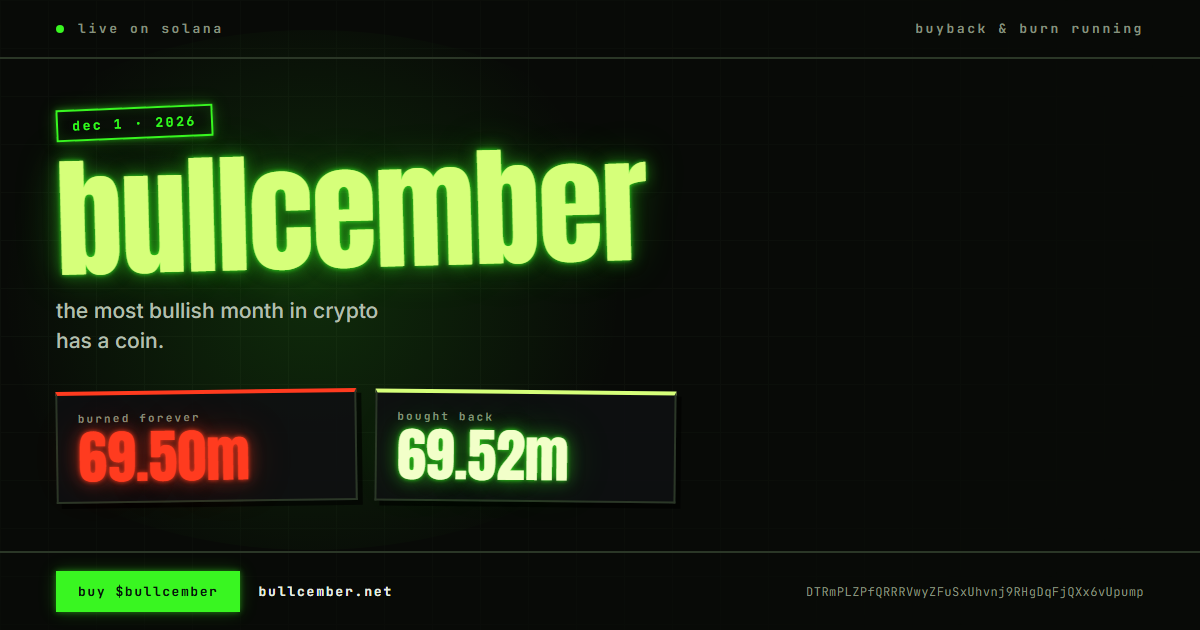
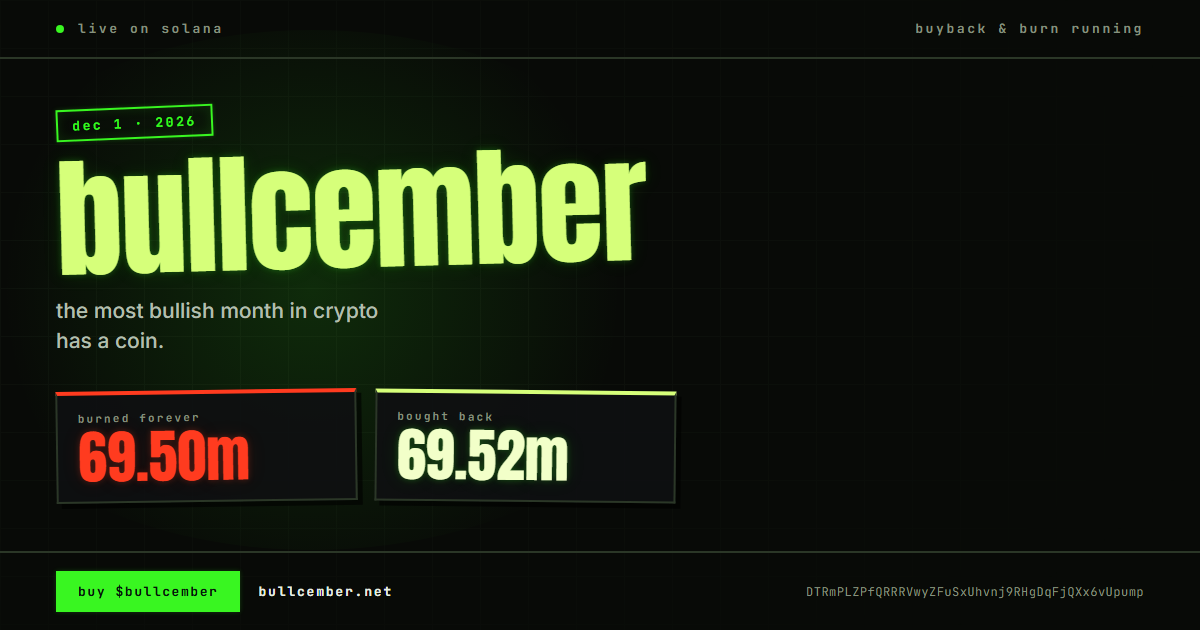
Dial the glow back -- it was glare, not atmosphere
Reported as painful to look at, and it was. --glow-lg stacked four layers
reaching 90px at 0.9 alpha under 152px display type on a near-black page: a
large, bright, soft-edged light source with nothing around it to adapt to.
Now two layers, 20px reach, 0.26 peak alpha.

The tell that the original numbers were wrong is that a real tube's halo falls
off fast and is dim a few centimetres out. A 90px bloom was never observed
behaviour, it was just more effect.

Removing the accumulation mattered as much as shrinking the token. Eleven
elements were each emitting light and the page had no dark to rest in, so glow
is now gone entirely from the section titles, the primary and secondary CTAs,
the marquee band and its type, the stats bar surround, nav hover, the solana
badge, the social CTA, the scrawl, and the stamps' inner spill and text. What
stays lit is only what is genuinely display type: the wordmark, the countdown,
the herd counter and the two engine figures.

Two supporting changes:

- The hero wash drops from 0.13 to 0.07. It sits behind the headline, so it was
  adding to exactly the spot that was worst.
- Small type is flat everywhere now. A halo on 11-13px text never reads as
  light, it just blurs the glyph edges, so it was paying a legibility cost for
  nothing.

brand-tokens.css and og-template.html carry their OWN copies of these tokens
rather than referencing style.css, so the first pass at this reduction missed
[…]

diff --git a/style.css b/style.css
@@ -1921,19 +1921,26 @@ section { padding: var(--section-y) 0; }
   --down:          #FF4D4D;
 
   /* ---- glow ------------------------------------------------------------
-     The halo layer, as reusable recipes rather than hand-rolled shadows. Two
-     strengths: --glow-sm for interface furniture (borders, chips, small type)
-     and --glow-lg for display type that is meant to look like it is actually
-     lit. Both are pure colour with no offset — a tube glows evenly in all
-     directions, and any offset immediately reads as a drop shadow instead. */
-  --glow-sm:  0 0 6px rgba(var(--signal-rgb), 0.45),
-              0 0 18px rgba(var(--signal-rgb), 0.22);
-  --glow-lg:  0 0 4px rgba(var(--signal-rgb), 0.9),
-              0 0 14px rgba(var(--signal-rgb), 0.55),
-              0 0 42px rgba(var(--signal-rgb), 0.3),
-              0 0 90px rgba(var(--signal-rgb), 0.16);
-  --glow-accent: 0 0 6px rgba(214, 255, 122, 0.4),
-                 0 0 20px rgba(214, 255, 122, 0.2);
+     The halo layer, as reusable recipes rather than hand-rolled shadows. Pure
+     colour with no offset — a tube glows evenly in all directions, and any
+     offset immediately reads as a drop shadow instead.
+
+     DIALLED BACK 2026-09-24 on the direct report that it hurt to look at, and
+     it did: --glow-lg was four stacked layers reaching 90px at 0.9 alpha, sat
+     under 152px display type on a near-black page. That is a large, bright,
+     soft-edged light source with nothing around it to adapt to, which is the
+     recipe for glare rather than for atmosphere. It is two layers now, half
+     the reach and roughly a quarter of the intensity.
+
+     The tell that the old numbers were wrong: a real tube's halo falls off
+     fast and is dim a few centimetres out. A 90px bloom was never observed
+     behaviour, it was just more effect. If this ever needs to read harder,
+     raise the INNER layer's alpha, never add reach — the wide soft layers are
+     what causes the strain, and they are the ones that read as haze anyway. */
+  --glow-sm:  0 0 5px rgba(var(--signal-rgb), 0.20);
+  --glow-lg:  0 0 6px rgba(var(--signal-rgb), 0.26),
+              0 0 20px rgba(var(--signal-rgb), 0.10);
+  --glow-accent: 0 0 6px rgba(214, 255, 122, 0.14);
 
   --f-slab:   'Anton', 'Space Grotesk', Impact, sans-serif;
   --f-scrawl: 'Permanent Marker', 'Comic Sans MS', cursive;
@@ -2703,7 +2710,8 @@ html { overflow-x: clip; }
 }
 
 /* ---- section titles and the inline highlight ---------------------------- */
-.section-title { text-shadow: 0 0 22px rgba(var(--signal-rgb), 0.18); }
+/* the section title is --bone, not a lit colour, so it never needed a halo */
+.section-title { text-shadow: none; }
 .highlight {
   color: var(--signal-core);
   text-shadow: var(--glow-lg);
@@ -2728,9 +2736,8 @@ html { overflow-x: clip; }
 }
 .elive.burn .elive-v {
   color: var(--burn);
-  text-shadow: 0 0 4px rgba(255, 59, 31, 0.9),
-               0 0 14px rgba(255, 59, 31, 0.5),
-               0 0 42px rgba(255, 59, 31, 0.26);
+  text-shadow: 0 0 6px rgba(255, 59, 31, 0.26),
+               0 0 20px rgba(255, 59, 31, 0.10);
 }
 .elive.rw .elive-v {
   color: var(--accent);
@@ -2750,44 +2757,48 @@ html { overflow-x: clip; }
    The trench stamp carried a hard 3px offset in signal at 22% alpha. A bloom
    on both sides of the border (outer halo + inner spill) is what a bent tube
    actually does to the surface it is mounted on. */
+/* The border is the lit part. The inset spill and the text halo were two more
+   light sources on an element the size of a postage stamp, and at 11px the
+   halo only blurred the letterforms. */
 .hero-tag, .section-tag, .final-cta-tag {
   color: var(--signal-ink);
   border-color: var(--signal);
-  box-shadow: var(--glow-sm), inset 0 0 12px rgba(var(--signal-rgb), 0.12);
-  text-shadow: 0 0 10px rgba(var(--signal-rgb), 0.5);
+  box-shadow: var(--glow-sm);
+  text-shadow: none;
 }
 
 /* ---- filled CTA ---------------------------------------------------------
    Dark ink on the fill, never white: #FFF on this green is 1.46:1. The fill is
    already the brightest thing on the page, so the halo stays restrained. */
+/* No halo on the fill. A solid 13.6:1 block is already the brightest object on
+   the page; a glow around it only smears its edge. The hover brightens the
+   fill instead, which is the cheaper signal and does not add a light source. */
 .btn-primary {
   background: var(--signal);
   color: var(--on-signal);
   border-color: var(--signal);
-  box-shadow: var(--glow-sm);
+  box-shadow: none;
 }
 .btn-primary:hover {
   background: var(--signal-core);
   border-color: var(--signal-core);
-  box-shadow: 0 0 10px rgba(var(--signal-rgb), 0.7),
-              0 0 30px rgba(var(--signal-rgb), 0.4);
+  box-shadow: none;
 }
 .btn-secondary:hover, .btn-nav:hover {
   border-color: var(--signal);
   color: var(--signal-ink);
-  box-shadow: var(--glow-sm);
+  box-shadow: none;
 }
 
 /* ---- status dots: small, round and bright, which is what a tube end is --- */
-.live-dot, .buy-dot {
-  box-shadow: 0 0 6px rgba(var(--signal-rgb), 0.9),
-              0 0 14px rgba(var(--signal-rgb), 0.5);
-}
+.live-dot, .buy-dot { box-shadow: 0 0 5px rgba(var(--signal-rgb), 0.45); }
 
 /* ---- links and nav ------------------------------------------------------ */
-.nav-links a:hover { color: var(--signal-ink); text-shadow: 0 0 12px rgba(var(--signal-rgb), 0.55); }
-.sol-badge { color: var(--signal-ink); text-shadow: 0 0 10px rgba(var(--signal-rgb), 0.45); }
-.social-cta { text-shadow: 0 0 12px rgba(var(--signal-rgb), 0.4); }
+/* All small type, all flat. Colour alone already carries these, and a halo on
+   11-13px text blurs the glyph edges without ever reading as light. */
+.nav-links a:hover { color: var(--signal-ink); text-shadow: none; }
+.sol-badge { color: var(--signal-ink); text-shadow: none; }
+.social-cta { text-shadow: none; }
 /* The telegram glyph shipped with its official #2AABEE. That was the only cool
    colour left on the page, which is the exact reason the solana mark lost its
    purple/green gradient in the rust repaint — a lone blue reads as a foreign
@@ -2809,11 +2820,13 @@ html { overflow-x: clip; }
   background: var(--bg-2);
   border-top: 2px solid var(--signal);
   border-bottom: 2px solid var(--signal);
-  box-shadow: var(--glow-sm), inset 0 0 26px rgba(var(--signal-rgb), 0.10);
+  box-shadow: none;
 }
+/* A full-width band of glowing 12px type scrolling past is the single most
+   fatiguing thing a marquee can do. The rules above and below carry it. */
 .ticker-inner {
   color: var(--signal-ink);
-  text-shadow: 0 0 10px rgba(var(--signal-rgb), 0.5);
+  text-shadow: none;
 }
 .tk-sep { color: var(--signal-dim); text-shadow: none; }
 
@@ -2824,14 +2837,14 @@ html { overflow-x: clip; }
    on the token now and will follow the next repaint instead of being missed. */
 .live-bar {
   background: color-mix(in srgb, var(--surface) 92%, transparent);
-  box-shadow: 0 -2px 16px rgba(var(--signal-rgb), 0.28), 6px 6px 0 rgba(0,0,0,0.6);
+  box-shadow: 6px 6px 0 rgba(0,0,0,0.6);
 }
 
 /* ---- the hero wash: a lit sign spills onto the wall behind it ------------ */
-.hero-glow { background: radial-gradient(circle, rgba(var(--signal-rgb), 0.13) 0%, transparent 68%); }
+.hero-glow { background: radial-gradient(circle, rgba(var(--signal-rgb), 0.07) 0%, transparent 68%); }
 
 /* ---- scrawl ------------------------------------------------------------- */
-.scrawl, .scrawl-hero, .scrawl-cd { text-shadow: 0 0 14px rgba(214, 255, 122, 0.35); }
+.scrawl, .scrawl-hero, .scrawl-cd { text-shadow: none; }
 
 /* ---- reduced motion -----------------------------------------------------
    Every glow here is static, so there is nothing to disable for motion. The

diff --git a/index.html b/index.html
@@ -16,7 +16,7 @@
   <meta property="og:url" content="https://bullcember.net" />
   <meta property="og:title" content="$BULLCEMBER: The Bullish December, Now on Solana" />
   <meta property="og:description" content="$BULLCEMBER just launched on Solana. The most bullish month in crypto finally has a coin. Zero taxes, no VCs, pure community. Q4 2026 is coming. Be ready for December." />
-  <meta property="og:image" content="https://bullcember.net/og-image.png?v=4a435446" />
+  <meta property="og:image" content="https://bullcember.net/og-image.png?v=a12dce12" />
   <meta property="og:image:width" content="1200" />
   <meta property="og:image:height" content="630" />
   <!-- Twitter Card -->
@@ -24,7 +24,7 @@
   <meta name="twitter:site" content="@bullcembersol" />
   <meta name="twitter:title" content="$BULLCEMBER: The Bullish December, Now on Solana" />
   <meta name="twitter:description" content="$BULLCEMBER just launched on Solana. The most bullish month in crypto finally has a coin. Zero taxes, no VCs, pure community. Q4 2026 is coming. Be ready for December." />
-  <meta name="twitter:image" content="https://bullcember.net/og-image.png?v=4a435446" />
+  <meta name="twitter:image" content="https://bullcember.net/og-image.png?v=a12dce12" />
   <link rel="stylesheet" href="style.css" />
   <link rel="preconnect" href="https://fonts.googleapis.com" />
   <link rel="preconnect" href="https://fonts.gstatic.com" crossorigin />
